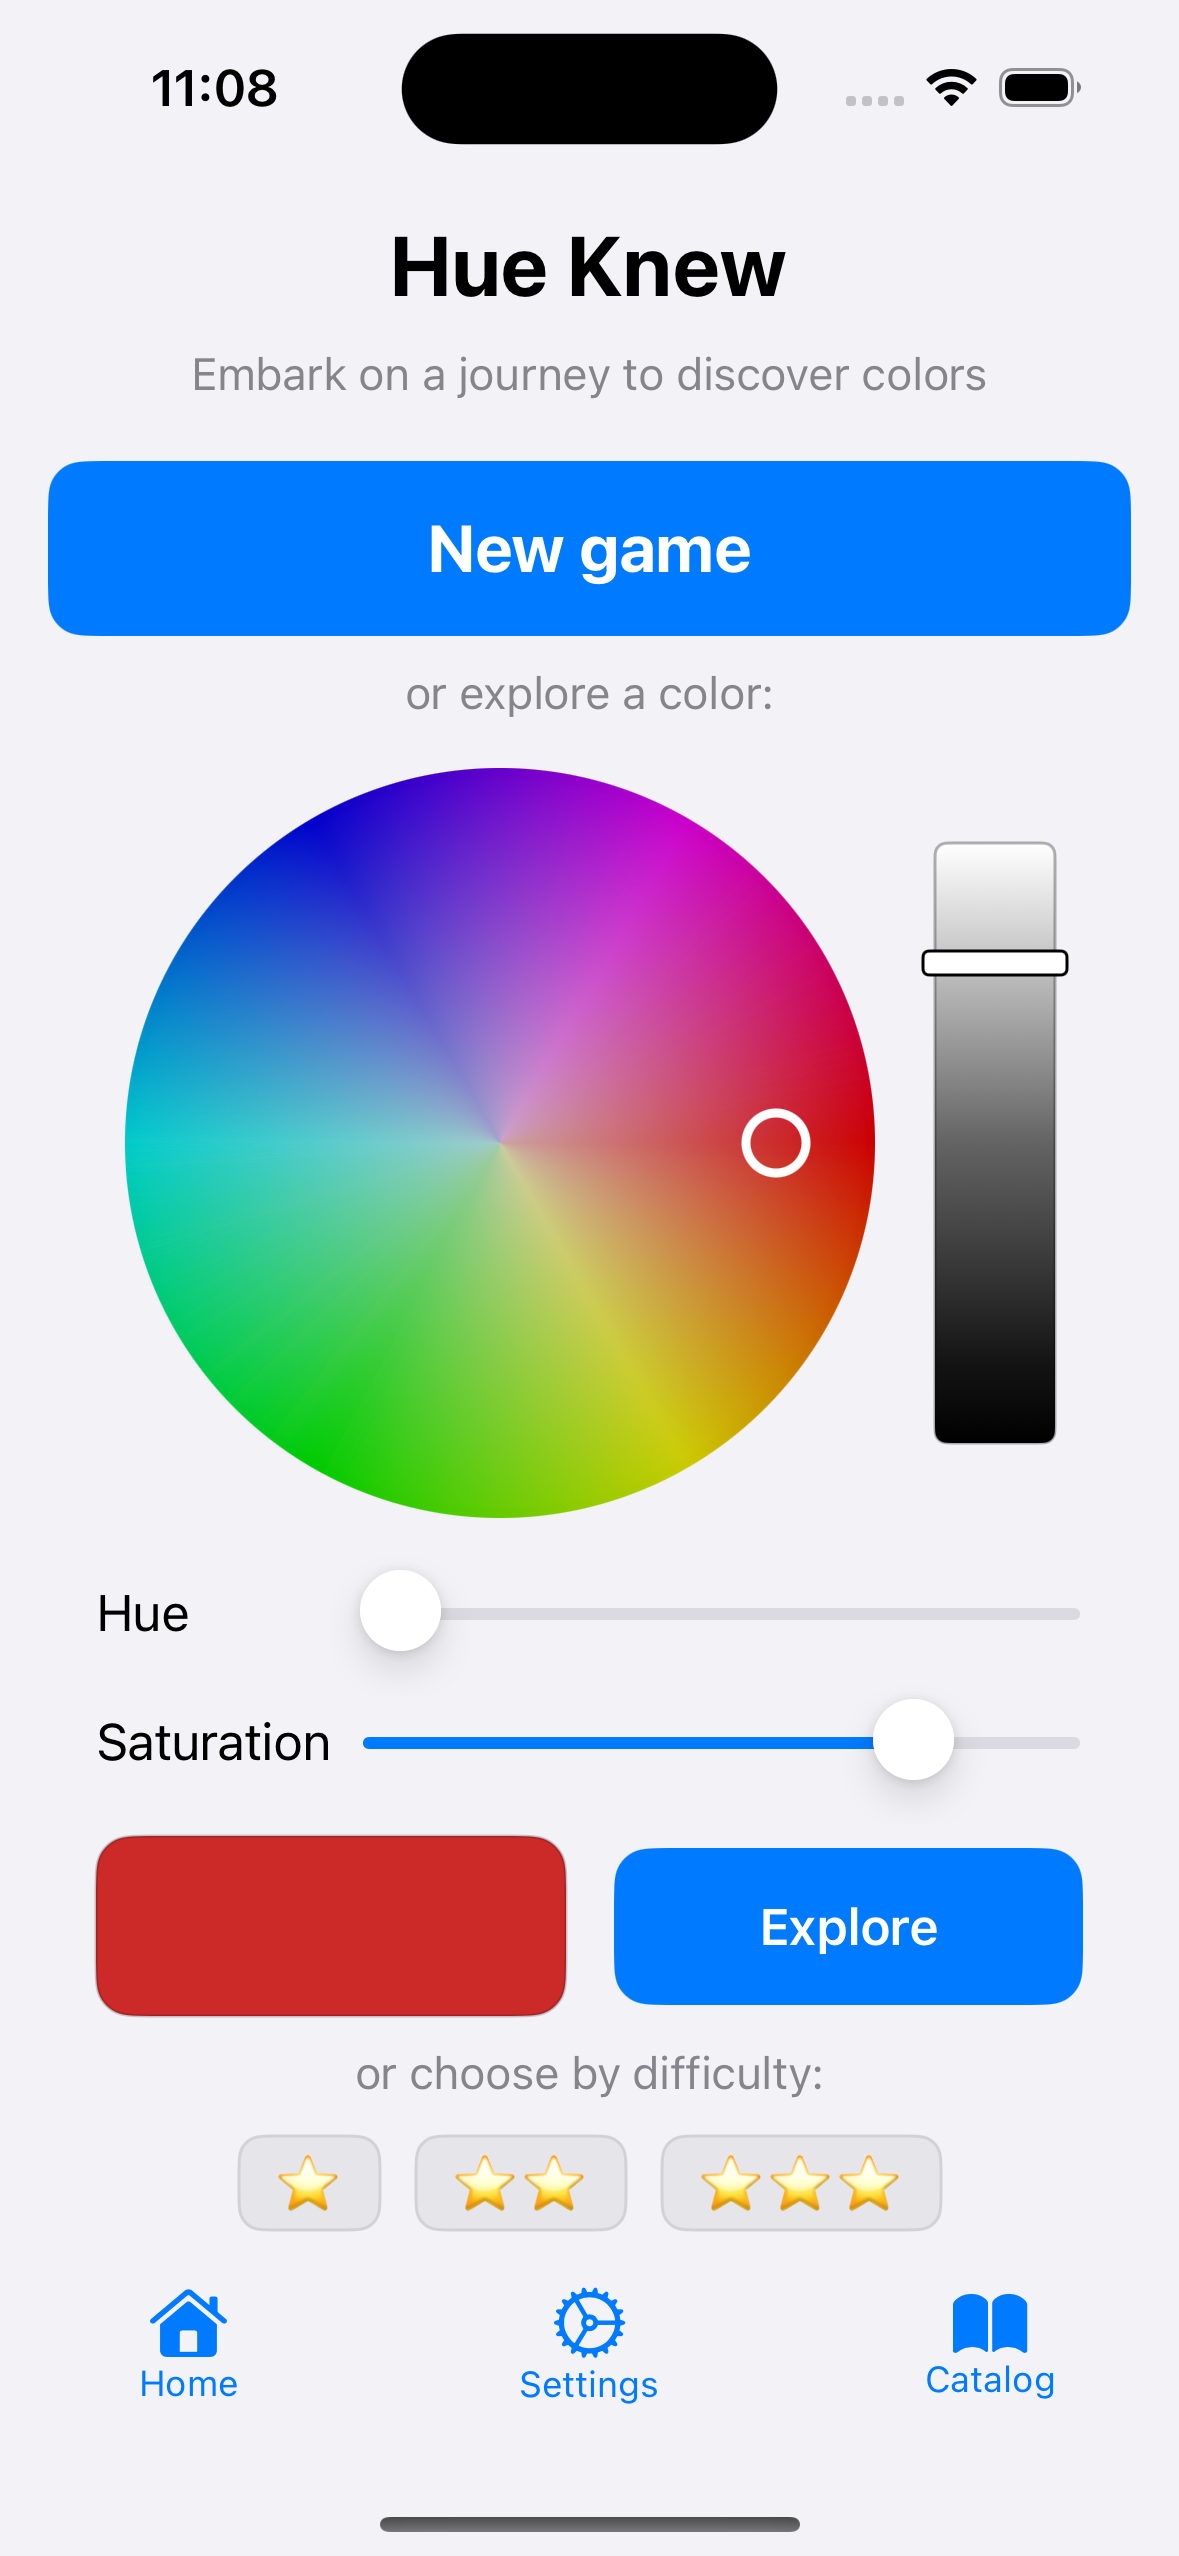
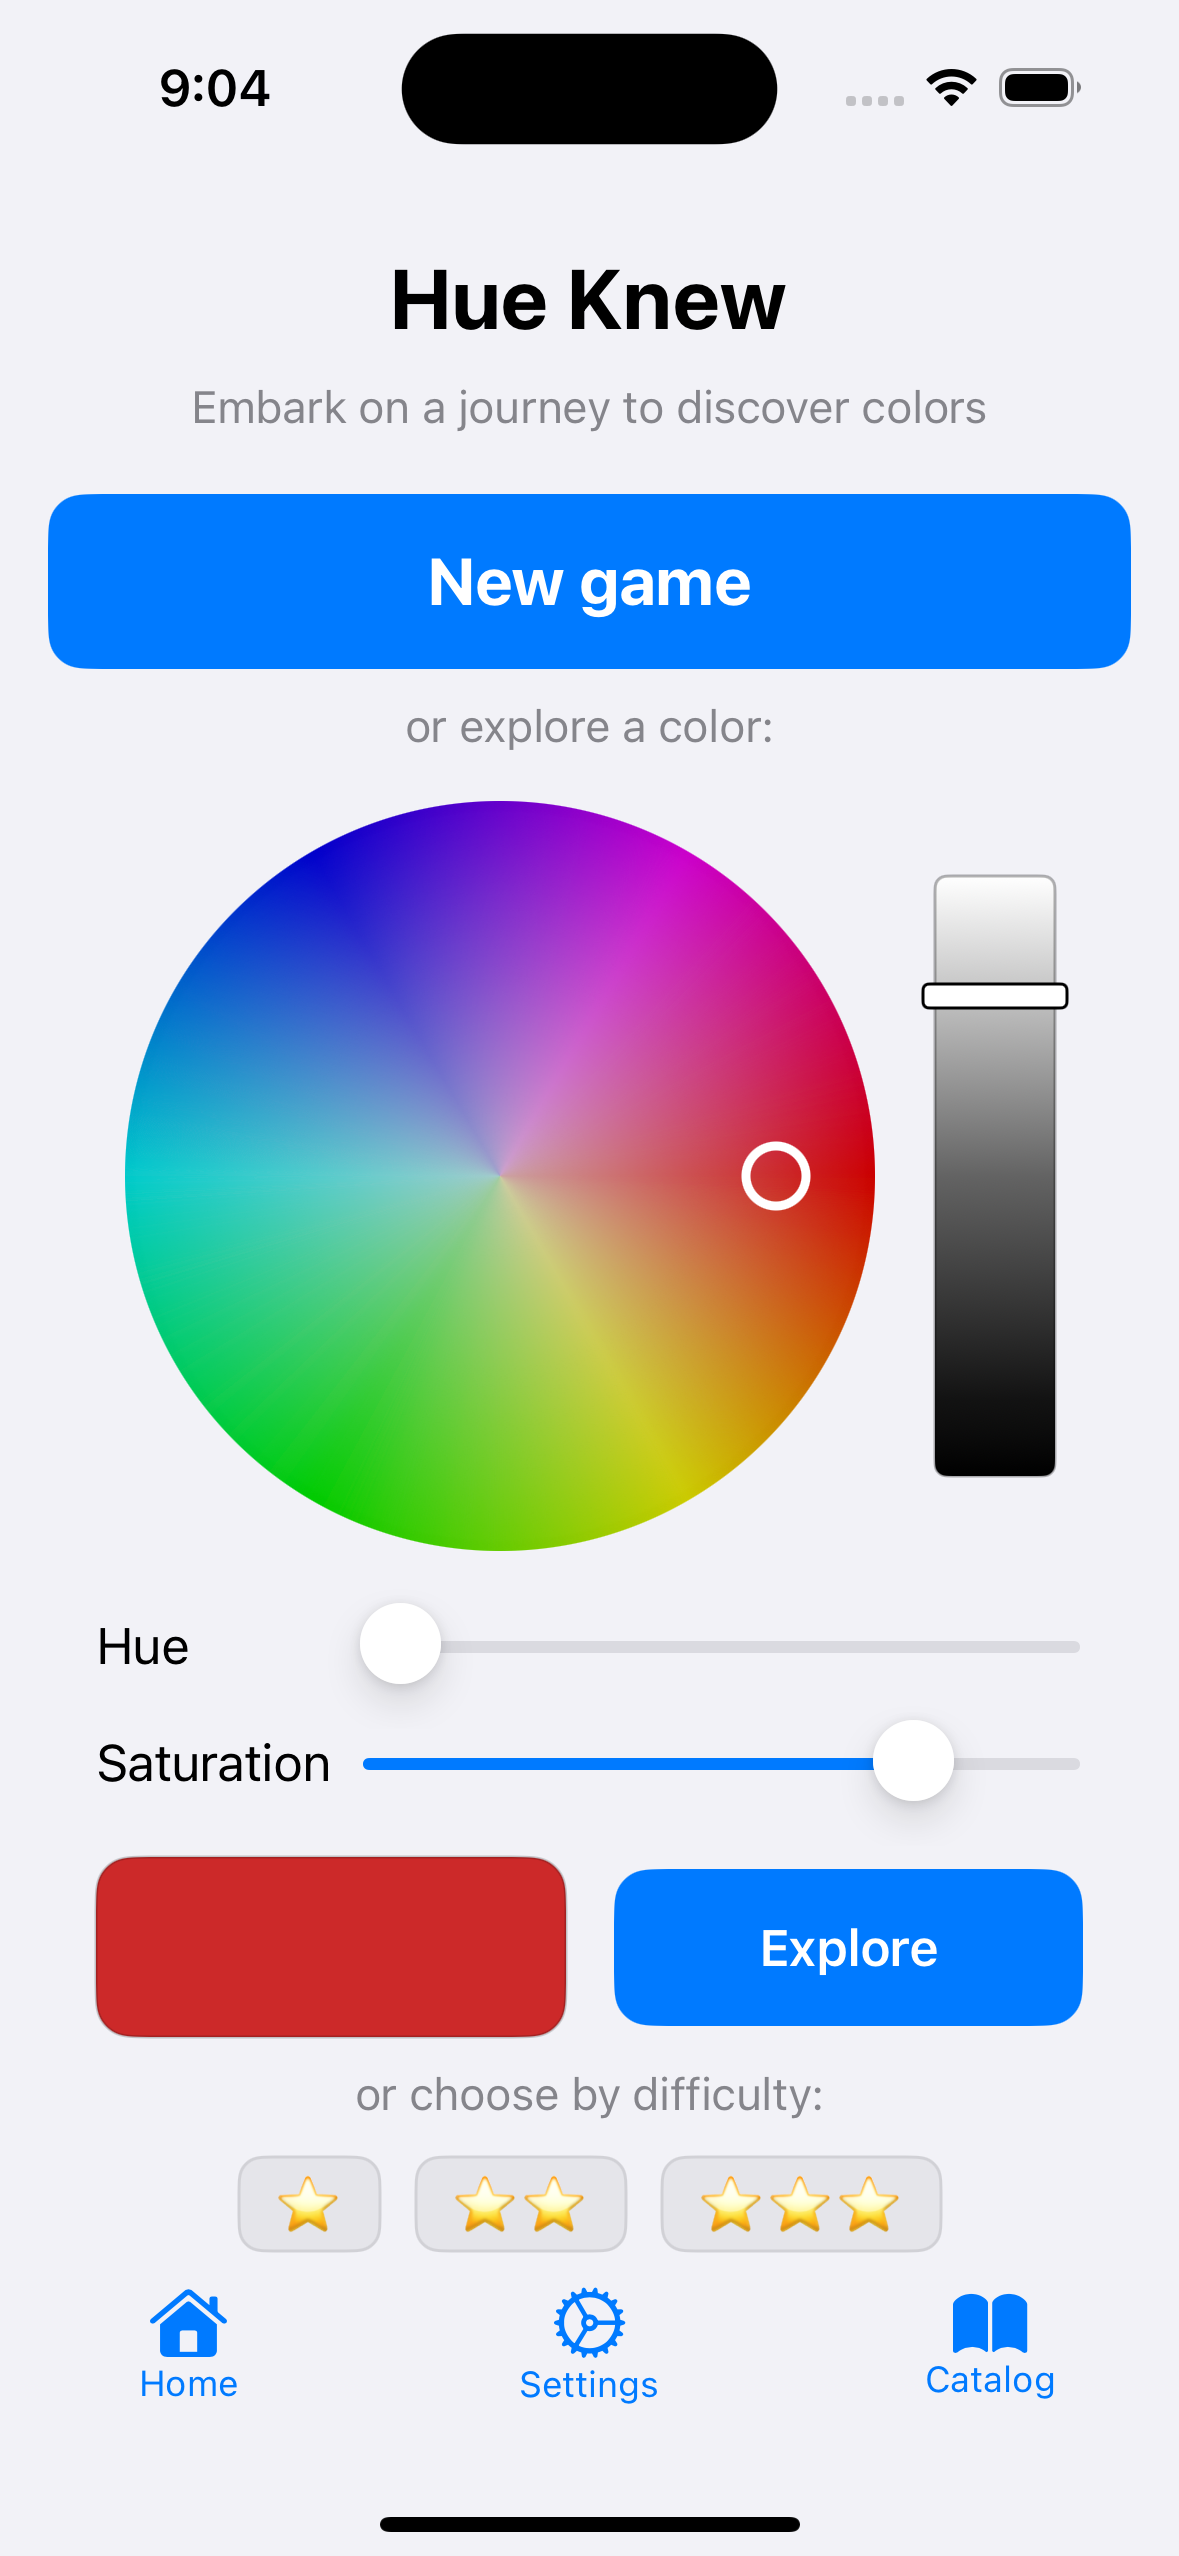
tighten up home screen to prevent scroll, and add new 1.0 screenshots

diff --git a/HueKnew/Views/ColorWheelPicker.swift b/HueKnew/Views/ColorWheelPicker.swift
@@ -33,7 +33,7 @@ struct ColorWheelPicker: View {
             }
 
             // Hue & Saturation sliders
-            VStack(spacing: 12) {
+            VStack(spacing: 8) {
                 HStack {
                     Text("Hue")
                         .frame(width: 80, alignment: .leading)
